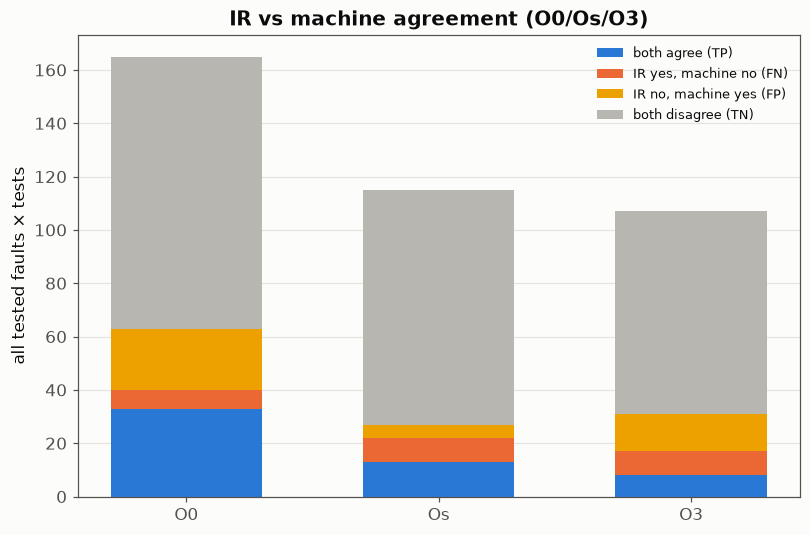
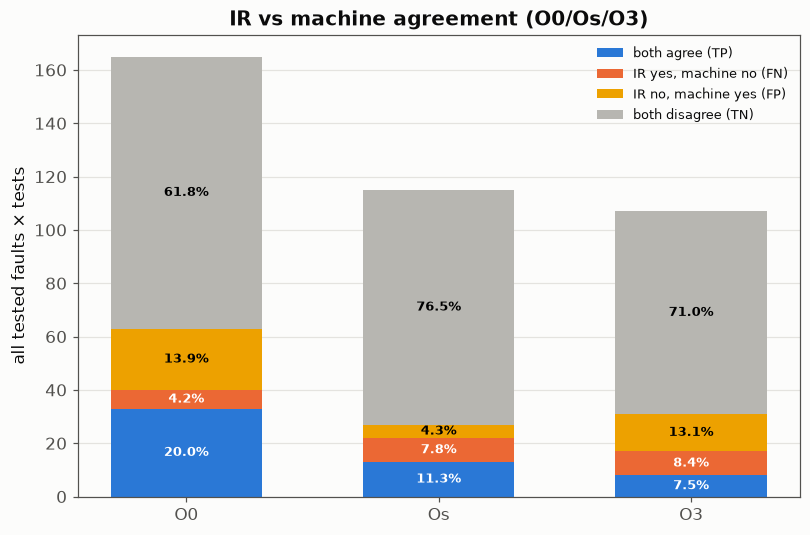
comparison plot

diff --git a/reports/comparison/dilithium_ir_vs_machine.py b/reports/comparison/dilithium_ir_vs_machine.py
@@ -310,15 +310,15 @@ def plot_translation_by_build(tbb, path):
             ax.text(i, yes[i] / 2, f"{yes[i]}\n({yes[i]/total*100:.0f}%)",
                     ha="center", va="center", color="white", fontsize=11, fontweight="bold")
         if no[i]:
-            ax.text(i, yes[i] + no[i] / 2, str(no[i]), ha="center", va="center",
-                    color="white", fontsize=10)
+            ax.text(i, yes[i] + no[i] / 2, f"{no[i]}\n({no[i]/total*100:.0f}%)",
+                    ha="center", va="center", color="white", fontsize=10)
         if none[i]:
-            ax.text(i, bot2[i] + none[i] / 2, str(none[i]), ha="center", va="center",
-                    color=INK2, fontsize=10)
+            ax.text(i, bot2[i] + none[i] / 2, f"{none[i]}\n({none[i]/total*100:.0f}%)",
+                    ha="center", va="center", color=INK2, fontsize=10)
 
     ax.set_xticks(list(x))
     ax.set_xticklabels([f"{b}" for b in BUILDS])
-    ax.set_ylabel(f"IR findings (of {total}")
+    ax.set_ylabel(f"IR findings (out of {total})")
     ax.set_xlabel("machine build (all compiled from the same llvm)")
     ax.set_title("Do IR findings survive as machine-instruction skips?")
     ax.legend(frameon=False, loc="upper right", fontsize=9)
@@ -405,10 +405,17 @@ def plot_agreement(am, path):
               ("fn", "IR yes, machine no (FN)", C_ORANGE),
               ("fp", "IR no, machine yes (FP)", C_YELLOW),
               ("tn", "both disagree (TN)", C_GREY)]
+    totals = [sum(am[b][k] for k, _, _ in labels) for b in BUILDS]
+    light_fg = {C_YELLOW, C_GREY}  # light fills -> black text; else white
     bottom = [0] * len(BUILDS)
     for key, lab, col in labels:
         vals = [am[b][key] for b in BUILDS]
         axL.bar(BUILDS, vals, bottom=bottom, color=col, label=lab, width=0.6)
+        for i, (v, bot, tot) in enumerate(zip(vals, bottom, totals)):
+            if tot and v / tot >= 0.02:  # skip slivers too thin to label
+                axL.text(i, bot + v / 2, f"{v / tot * 100:.1f}%",
+                         ha="center", va="center", fontsize=8.5, fontweight="bold",
+                         color="black" if col in light_fg else "white")
         bottom = [a + c for a, c in zip(bottom, vals)]
     axL.set_ylabel("all tested faults × tests")
     axL.set_title("IR vs machine agreement (O0/Os/O3)")
